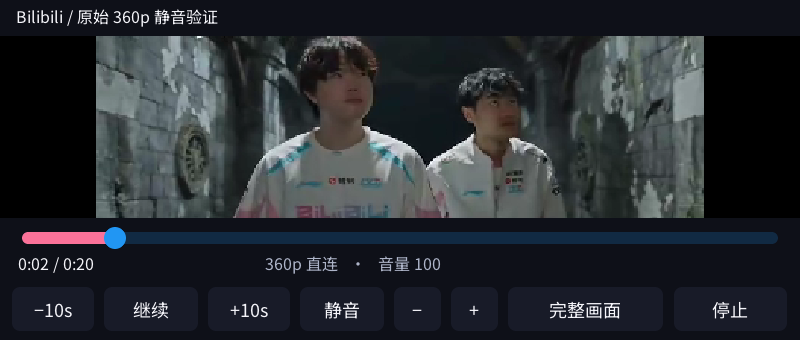
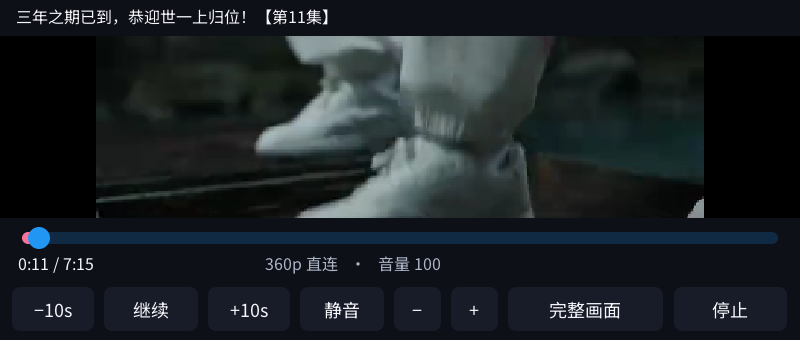
Fix Bilibili CDN playback and paused seeking

diff --git a/bilibili/src/player.cpp b/bilibili/src/player.cpp
@@ -14,18 +14,26 @@
 #include <unistd.h>
 namespace bili {
 Player::~Player(){stop();}
-void Player::command(const std::string&s){if(input_>=0){auto text="pausing_keep_force "+s+"\n";if(write(input_,text.data(),text.size())<0&&errno!=EAGAIN)error="播放器控制连接已断开";}}
+bool Player::command(const std::string&s,const char*prefix){if(input_<0)return false;auto text=prefix+s+"\n";if(write(input_,text.data(),text.size())!=(ssize_t)text.size()){error="播放器控制连接已断开";return false;}return true;}
 void Player::start(const Stream&s){
     stop();error.clear();ended=loaded=paused=false;position=0;duration=s.duration;reader_=Y4mReader{};lines_.clear();
     bool local=getenv("C1_BILI_QA_LOCAL")&&s.url=="/tmp/c1-bili-direct.mp4";
     if(!local&&!media_url(s.url))throw std::runtime_error("无效的视频源");
+    // The stock libavformat HTTPS stream crashes with SIGBUS on byte seeks,
+    // including -ss at startup. Its native HTTP transport supports CDN Range
+    // seeks. Only media uses HTTP; account/API traffic stays HTTPS, and no
+    // cookies are passed to MPlayer. Keep the validated host, path and query.
+    auto playback_url=s.url;
+    if(playback_url.rfind("https://",0)==0)playback_url.replace(0,5,"http");
     fifo_=c1::data()+"/bilibili/frame-"+std::to_string(getpid())+".y4m";
     if(mkfifo(fifo_.c_str(),0600))throw std::runtime_error("无法建立视频缓冲");
     video_=open(fifo_.c_str(),O_RDWR|O_NONBLOCK|O_CLOEXEC);if(video_<0){stop();throw std::runtime_error("无法打开视频缓冲");}
     fcntl(video_,F_SETPIPE_SZ,512*1024);
     int in[2],out[2];if(pipe2(in,O_CLOEXEC)){stop();throw std::runtime_error("无法创建控制管道");}if(pipe2(out,O_CLOEXEC)){close(in[0]);close(in[1]);stop();throw std::runtime_error("无法创建输出管道");}
     const char*silent=getenv("C1_BILI_SILENT");
-    std::vector<std::string> args={"mplayer","-noconfig","all","-slave","-quiet","-identify","-noconsolecontrols","-nolirc","-nojoystick","-nomouseinput","-nosub","-noautosub","-osdlevel","0","-cache","512","-cache-min","10","-framedrop","-vo","null","-ao",silent&&std::string(silent)=="1"?"null":"media","-user-agent","Mozilla/5.0","-referrer","https://www.bilibili.com/",s.url};
+    // Stock MPlayer routes HTTPS through libavformat, where -referrer and
+    // -user-agent are not forwarded. Configure both HTTP transport paths.
+    std::vector<std::string> args={"mplayer","-noconfig","all","-slave","-quiet","-identify","-noconsolecontrols","-nolirc","-nojoystick","-nomouseinput","-nosub","-noautosub","-osdlevel","0","-cache","512","-cache-min","10","-framedrop","-vo","null","-ao",silent&&std::string(silent)=="1"?"null":"media","-user-agent","Mozilla/5.0","-referrer","https://www.bilibili.com/","-lavfstreamopts","user_agent=Mozilla/5.0,referer=https://www.bilibili.com/",playback_url};
     std::vector<char*>av;for(auto&a:args)av.push_back(a.data());av.push_back(nullptr);
     if(!screen::video_begin()){for(int fd:{in[0],in[1],out[0],out[1]})close(fd);stop();throw std::runtime_error("无法准备视频显示");}
     auto preload=c1::root()+"/streamplayer/c1max-yuv-pipe.so";pid_t parent=getpid();pid_=fork();
@@ -38,8 +46,8 @@ void Player::stop(){
     if(pid_>0){std::fprintf(stderr,"[bilibili] stop frames=%llu position_ms=%d paused=%d\n",(unsigned long long)frames(),int(position*1000),int(paused));command("quit");pid_t p=pid_;pid_=-1;kill(-p,SIGTERM);bool done=false;for(int i=0;i<25;i++){if(waitpid(p,nullptr,WNOHANG)==p){done=true;break;}usleep(10000);}if(!done){kill(-p,SIGKILL);while(waitpid(p,nullptr,0)<0&&errno==EINTR){}}}
     for(int fd:{input_,output_,video_})if(fd>=0)close(fd);input_=output_=video_=-1;if(!fifo_.empty())unlink(fifo_.c_str());fifo_.clear();screen::playing=false;screen::video_end();
 }
-void Player::pause(){if(!active()||!loaded)return;const char toggle[]="pause\n";if(write(input_,toggle,sizeof(toggle)-1)!=(ssize_t)(sizeof(toggle)-1))return;paused=!paused;last_frame_=screen::tick();}
-void Player::seek(double seconds){if(!active()||!loaded||!std::isfinite(seconds))return;position=std::clamp(seconds,0.0,double(std::max(0,duration-1)));command("seek "+std::to_string(position)+" 2");last_frame_=screen::tick();}
+void Player::pause(){if(!active()||!loaded||!command("pause",""))return;paused=!paused;last_frame_=screen::tick();}
+void Player::seek(double seconds){if(!active()||!loaded||!std::isfinite(seconds))return;position=std::clamp(seconds,0.0,double(std::max(0,duration-1)));command("seek "+std::to_string(position)+" 2","pausing_keep ");last_frame_=screen::tick();}
 void Player::poll(){
     if(!active())return;uint8_t bytes[8192];size_t budget=768*1024;ssize_t n;
     while(budget&&(n=read(video_,bytes,std::min(sizeof(bytes),budget)))>0){budget-=size_t(n);if(!reader_.feed(bytes,n,[&](auto rgb,int w,int h,int an,int ad){screen::video_frame(rgb,w,h,an,ad);loaded=true;last_frame_=screen::tick();})){error=reader_.error();break;}}
@@ -49,13 +57,14 @@ void Player::poll(){
             else if(line.rfind("ID_LENGTH=",0)==0){auto v=std::stod(line.substr(10));if(std::isfinite(v)&&v>0&&v<=86400)duration=v;}
             else if(line.rfind("C1_YUV_ERROR=",0)==0)error="视频格式或尺寸超出直播放范围";
             else if(line.find("Failed to resolve hostname")!=std::string::npos)error="DNS 解析失败，请检查设备 Wi-Fi";
-            else if(line.find("403 Forbidden")!=std::string::npos)error="视频链接已失效，请返回后重试";
+            else if(line.find("403 Forbidden")!=std::string::npos||line.find("403: Forbidden")!=std::string::npos)error="视频服务器拒绝访问（403），请返回后重试";
+            else if(line.find("MPlayer interrupted by signal")!=std::string::npos)error="播放器异常退出，请返回后重试";
         }catch(...){}
     }
     auto now=screen::tick();if(now-last_query_>500){command("get_time_pos");last_query_=now;}
     if(now-last_stats_>5000){std::fprintf(stderr,"[bilibili] frames=%llu elapsed_ms=%u position_ms=%d paused=%d\n",(unsigned long long)frames(),now-started_,int(position*1000),int(paused));last_stats_=now;}
     int status=0;bool exited=waitpid(pid_,&status,WNOHANG)==pid_;
-    if(exited){pid_t old=pid_;pid_=-1;kill(-old,SIGTERM);if(!loaded&&error.empty())error="视频打开失败，请检查网络或重新选择视频";}
+    if(exited){pid_t old=pid_;pid_=-1;kill(-old,SIGTERM);if(error.empty()){if(!loaded)error="视频打开失败，请检查网络或重新选择视频";else if(!WIFEXITED(status)||WEXITSTATUS(status))error="播放器异常退出，请返回后重试";}}
     bool timedout=(!loaded&&now-started_>30000)||(loaded&&!paused&&now-last_frame_>15000);
     if(timedout&&error.empty())error="视频加载超时，请检查网络后重试";
     screen::video_refresh(paused);

diff --git a/bilibili/tests/player_device_test.cpp b/bilibili/tests/player_device_test.cpp
@@ -1,0 +1,50 @@
+// Device-only integration test of the real Player / original MPlayer / CDN.
+// No framebuffer, keyboard or audio device access. Display submission is a sink;
+// decoding, YUV FIFO, transport, slave controls and timing remain the real code.
+#include "player.hpp"
+#include "display.hpp"
+#include <chrono>
+#include <cmath>
+#include <csignal>
+#include <filesystem>
+#include <functional>
+#include <iostream>
+#include <stdexcept>
+#include <unistd.h>
+namespace screen {
+bool playing=false,tap=false;
+uint32_t tick(){return std::chrono::duration_cast<std::chrono::milliseconds>(
+    std::chrono::steady_clock::now().time_since_epoch()).count();}
+bool video_begin(){return true;}
+void video_frame(const uint32_t*,int,int,int,int){}
+void video_refresh(bool){}
+void video_end(){}
+}
+int main(int argc,char**argv){
+    if(argc!=2||!getenv("C1_APPS_DATA")){std::cerr<<"Set a temporary C1_APPS_DATA, then pass a BV id\n";return 2;}
+    setenv("C1_BILI_SILENT","1",1);
+    signal(SIGPIPE,SIG_IGN);
+    std::filesystem::create_directories(c1::data()+"/bilibili");
+    try{
+        bili::Api api;auto detail=api.detail(argv[1]);auto source=api.stream(detail["bvid"],detail["pages"][0]["cid"]);
+        if(source.duration<90)throw std::runtime_error("Choose a video longer than 90 seconds");
+        bili::Player p;p.start(source);
+        auto poll=[&]{p.poll();if(!p.error.empty())throw std::runtime_error(p.error);if(!p.active())throw std::runtime_error("Player exited unexpectedly");usleep(5000);};
+        auto until=[&](const std::function<bool()>&ready,const char*label){auto start=screen::tick();while(!ready()){poll();if(screen::tick()-start>20000)throw std::runtime_error(label);}};
+        auto settle=[&](unsigned ms){auto start=screen::tick();while(screen::tick()-start<ms)poll();};
+        auto stable=[&]{settle(500);auto frames=p.frames();auto pos=p.position;settle(2200);if(!p.paused||p.frames()!=frames||std::abs(p.position-pos)>0.2)throw std::runtime_error("Pause did not hold frames/time");};
+        until([&]{return p.loaded&&p.position>=3;},"Initial playback timed out");
+        p.pause();stable();std::cout<<"PASS pause holds frames/time\n";
+        auto frames=p.frames();p.seek(15);
+        until([&]{return p.frames()>frames&&std::abs(p.position-15)<1;},"Paused seek timed out");
+        stable();std::cout<<"PASS paused seek to 15s holds new frame/time\n";
+        p.pause();until([&]{return p.position>=17&&p.frames()>frames+20;},"Resume timed out");
+        std::cout<<"PASS resume advances frames/time\n";
+        frames=p.frames();p.seek(70);until([&]{return p.frames()>frames+3&&p.position>=70&&p.position<75;},"Forward seek timed out");
+        settle(1200);if(p.position<70||p.position>80)throw std::runtime_error("Forward seek did not persist");
+        std::cout<<"PASS forward seek to 70s\n";
+        frames=p.frames();p.seek(5);until([&]{return p.frames()>frames+3&&p.position>=5&&p.position<8;},"Backward seek timed out");
+        settle(1500);if(p.position<5||p.position>12)throw std::runtime_error("Backward seek did not persist");
+        std::cout<<"PASS backward seek to 5s\n";p.stop();return 0;
+    }catch(const std::exception&e){std::cerr<<"FAIL "<<e.what()<<'\n';return 1;}
+}

diff --git a/tools/package.py b/tools/package.py
@@ -33,7 +33,7 @@ for name in ids:
             digest.update(str(p.relative_to(root)).encode()+b'\0'+p.read_bytes())
     for filename in ['CMakeLists.txt','dependencies.json','archives.json']:
         digest.update((root/filename).read_bytes())
-    apps.append({'id':name,'version':'0.3.1' if name=='crosspoint' else '0.3.0' if name=='calendar' else '0.1.2' if name=='dosbox' else '0.1.1' if name=='pcsx4all' else '0.1.0' if name in ['terminal','gomoku','processing','bilibili'] else '0.2.0','revision':digest.hexdigest()})
+    apps.append({'id':name,'version':'0.3.1' if name=='crosspoint' else '0.3.0' if name=='calendar' else '0.1.2' if name=='dosbox' else '0.1.1' if name in ['pcsx4all','bilibili'] else '0.1.0' if name in ['terminal','gomoku','processing'] else '0.2.0','revision':digest.hexdigest()})
 catalog={'schema':1,'platform':'c1max-mipsel-linux','apps':apps}
 if not args.local:(root/'catalog.json').write_text(json.dumps(catalog,indent=2)+'\n')
 out=root/'.build/device'

diff --git a/bilibili/src/player.hpp b/bilibili/src/player.hpp
@@ -21,6 +21,6 @@ private:
     std::string fifo_,lines_;
     Y4mReader reader_;
     uint32_t started_=0,last_frame_=0,last_query_=0,last_stats_=0;
-    void command(const std::string&text);
+    bool command(const std::string&text,const char*prefix="pausing_keep_force ");
 };
 }

diff --git a/docs/2026-09-26-bilibili-qa.md b/docs/2026-09-26-bilibili-qa.md
@@ -3,7 +3,36 @@
 目标设备：C1 Max / MIPS32r2 / Linux 4.4，逻辑分辨率 800×340。
 参考 wiliwili 提交 `88e5876bea9502d06f46a8656e3530684d3aaf7d`。
 
-## 已通过
+## 2026-09-27 联网复测（0.1.1）
+
+- Wi-Fi 恢复后，原生 MIPS API 在真机取得热门 20 条、搜索 processing
+  20 条、详情／分 P、360p MP4、PNG 封面，以及登录二维码；轮询返回
+  86101（等待扫码）。GUI 热门和真实搜索结果已重新截图。
+- 复现旧版 403：原厂 MPlayer 的 HTTPS 请求没有接收到普通 `-referrer`
+  参数。同一新鲜直链，wget 成功、旧播放器失败；补充 `-lavfstreamopts`
+  后成功解码。错误提示也改为“服务器拒绝访问（403）”，不再断言链接过期。
+- 发现原厂 HTTPS 流的 seek 会触发 SIGBUS：带缓存、不带缓存、MOV demuxer
+  和启动时 `-ss 15` 均复现；同一视频的 HTTP Range 和本地文件跳转成功。
+  当前视频走同一白名单 CDN 的原生 HTTP 通道，保留完整路径和签名查询串。
+  **视频传输不加密**；API、扫码登录、封面仍走 HTTPS，不向 CDN 发送账号 Cookie。
+- `pausing_keep_force seek` 换成 `pausing_keep seek`，使暂停时的跳转实际执行，
+  完成后保持暂停；查询进度仍使用 force 前缀。异常退出不再冒充正常播放结束。
+- 新增真机专用 `c1max-bilibili-player-test`：使用真实 Player、MPlayer、CDN、
+  YUV FIFO 和完整帧读取，仅以空显示端替代 framebuffer，始终静音、不读键盘。
+  两个公开视频 BV1XLhd6tE23、BV14Dho6WE66 均通过：暂停帧数／时间保持不变；
+  暂停跳至 15 秒后新帧保持；恢复帧数和时间推进；向前至 70 秒及向后至 5 秒。
+  这是播放器集成回归，不替代触摸或显示验证。
+- 有声 GUI 连续播放约 40 秒，稳定区间每 5 秒增加 149–151 帧，约 30 fps；
+  一段出现短暂缓冲。两张独立 framebuffer 截图显示不同画面。用户确认“有声音了”；
+  尚未测量精确音画同步或长时间稳定性。
+- GUI 客户端 RSS 约 4.3–5.1 MB；另有 MPlayer 解码、缓存、音频进程，不能把
+  客户端 RSS 当作整套播放器内存。QA 早期在 RAM 的 `/tmp` 积累 21 张原始截图，
+  恢复原装桌面后曾触发 OOM。已将截图移回电脑并清除设备临时副本及多余测试程序，
+  后续测试先停止原装桌面，两个播放器回归均通过。正式应用不保存这些原始截图。
+- MIPS API 回归与 YUV 缩放 ASan/UBSan 回归再次通过。公开包不包含测试二进制、
+  QA 数据、私有账号或 Tox；设备本地包继续保留已有 Tox。
+
+## 首版已通过（历史）
 
 - 全部原生应用交叉编译通过；Bilibili 静态 MIPS ELF 约 2.4 MB。
 - MIPS API 回归通过：WBI 签名、ID 提取、UTF-8 截断、CDN URL 边界、
@@ -26,27 +55,32 @@
   VTT/PGS 字幕、字幕线程/取消等。
 - 图标 RGBA，alpha 范围 0..255；放入公开 Launcher 资源，完整提示词已保存。
 
-## 截图来源
+## 当前截图来源
 
-- `bilibili.png`：真机渲染真实热门目录/封面的离线缓存。缓存由电脑从
-  公开 API 取得并放进独立 `/tmp` QA 数据目录，画面明确显示“显示缓存，正在刷新”。
-  这张图不代表设备已连上 B 站。
-- `bilibili-playback.png`：真机播放上述未转码视频文件，暂停后展示完整画面和控制条。
-  截图标题标注“原始 360p 静音验证”，不是网络连续播放截图。
-- `bilibili-search.png`：真机实体键事件测试后的搜索输入界面。
-- 截图读取活动 framebuffer 页，BGRA 340×800 旋转为 800×340，没有拼接 UI。
+- `bilibili.png`：真机直接连接 API 加载热门目录及封面，替换首版离线缓存图。
+- `bilibili-playback.png`：CDN 原始 360p MP4 网络播放，暂停展示画面与控制条。
+- `bilibili-search.png`：实体键事件输入 processing 后的联网搜索结果。
+- 截图读取活动 framebuffer 页，BGRA 340×800 旋转为 800×340，没有拼接 UI；
+  使用独立 QA 数据目录，没有写入用户收藏或登录凭据。
 
 ## 尚待验证的边界
 
-设备 Wi-Fi 在测试中处于 DISCONNECTED/SCANNING，网关不可达。
-重连已保存网络未成功；没有改写 Wi-Fi 密码或持久配置，临时网络选择已恢复。
-因此设备端 HTTPS/CDN 连续播放、真实账号扫码确认、登录后内容和有声同步
-尚未完成验收。退出所有 QA 前台并恢复原装桌面，便于用户手动重连。
+真实账号扫码确认、登录后内容、精确音画同步和长时间／弱网络稳定性尚未验收。
+二维码生成与等待扫码已在设备验证，不能据此宣称账号登录成功。
 
 日志不记录 Cookie、二维码 key 或带签名的 CDN URL；临时视频、响应和原始
 日志只放在 Git 忽略目录／设备 QA 目录，不进入应用包。
 
-## 安装
+## 当前安装
+
+最终修复已逐文件校验并原子切换到
+`/storage/apps/releases/20260927-014050-0fa0701d`，Bilibili 0.1.1。
+设备可执行文件与已测试构建 SHA-256 一致：
[1 lines of base64/hex data omitted]
+设备包 17 个应用，公开清单 16 个；原有私有 Tox 与用户数据保留。
+测试程序、临时截图、临时视频和 QA 数据已从设备清理，最终停留 Launcher。
+
+## 首版安装记录
 
 2026-09-27 已通过部署脚本逐文件 SHA-256 校验并原子切换到
 `/storage/apps/releases/20260927-001030-9eb36e2c`。

diff --git a/bilibili/README.md b/bilibili/README.md
@@ -26,11 +26,13 @@
 
 ## 播放与限制
 
+0.1.1 修复了原厂播放器没有给 HTTPS CDN 传递 Referer 导致的 403。真机还发现其 HTTPS 流在跳转时触发 SIGBUS；当前视频走同一 CDN 的原生 HTTP／Range 通道，视频传输不加密。账号登录、接口、封面仍用 HTTPS，CDN 请求不携带账号 Cookie。
+
 使用原厂 MPlayer 和 StreamPlayer 的完整帧适配器，MPlayer 不直接写 framebuffer；客户端统一合成视频和控件。`C1_YUV_SCALE` 只在本应用的播放器子进程启用，将原始 360p 画面缩至最多 400×288 再传给显示端；源尺寸限制为每边不超过 960、总像素不超过 307200。StreamPlayer 的原有转码尺寸校验保持不变。
 
 首版只支持 B 站返回的单文件 360p MP4。DASH-only、多段 durl、番剧专用播放接口、付费／地区限制、直播、弹幕、评论、关注动态、云端收藏和 B 站字幕尚未实现。不会绕过登录、付费或地区权限。自动 Cookie 刷新未实现，登录过期时需重新扫码。
 
-静音本地原始 640×360 H.264/AAC 测试约 28–29 fps；客户端 RSS 约 4.3 MB，**不含 MPlayer**。该测试不等于网络连续播放或有声同步验收；不同片源的码率、帧率和网络状况会影响流畅度。详细验证记录见 [QA](../docs/2026-09-26-bilibili-qa.md)。
+真机已联网取得热门、搜索、详情、360p MP4、封面和登录二维码。原始 640×360 H.264/AAC 网络播放稳定段约 30 fps，用户确认有声音；客户端 RSS 约 4.3 MB，**不含 MPlayer**。网络偶有缓冲，尚未做长时间稳定性或精确音画同步测量；不同片源的码率、帧率和网络状况会影响流畅度。详细验证记录见 [QA](../docs/2026-09-26-bilibili-qa.md)。
 
 ## 配置、构建与隐私
 
@@ -47,14 +49,16 @@ C1_APPS_ROOT=/work/.build/device C1_APPS_DATA=/work/.runtime/bilibili-qa qemu-mi
 /storage/apps/current/bilibili/c1max-bilibili --probe
 ```
 
+真机播放器回归可单独构建 `c1max-bilibili-player-test`：设置临时 `C1_APPS_DATA`，传入一个超过 90 秒的公开视频 BV 号。该程序实际连接 CDN、解码和测试暂停／跳转，始终静音，不访问 framebuffer 或键盘。运行前应通过前台监督器退出其他应用、停止原装桌面，以免并发解码耗尽内存；完成后恢复桌面。它不包含在应用包中。
+
 可用 `C1_BILI_SILENT=1` 临时将播放音频输出到 null。`--open BV...` 打开指定视频详情，不会自动播放。依赖同一个应用包里的 `streamplayer/c1max-yuv-pipe.so`、中文字体和系统音量监督器。
 
 本应用采用 GPL-3.0-or-later；上游来源、版本和第三方许可见 [licenses/NOTICE.md](licenses/NOTICE.md)。透明 Launcher 图标使用内置 imagegen 生成，完整提示词见 [bilibili-prompt.json](../launcher/assets/bilibili-prompt.json)。
 
 ## 设备截图
 
-![热门目录缓存](../docs/screenshots/bilibili.png)
+![联网热门视频](../docs/screenshots/bilibili.png)
 
-![未转码样本的本地播放验证](../docs/screenshots/bilibili-playback.png)
+![未转码视频的网络播放](../docs/screenshots/bilibili-playback.png)
 
-以上为真实设备截图；首页是电脑获取后写入独立 QA 目录的真实热门缓存，播放图是原始视频的本地静音验证。设备网络连续播放待 Wi-Fi 恢复后验证。
+以上为真实设备联网截图，数据保存在独立 QA 目录；播放图来自 B 站 CDN 原始码流，没有服务器转码。

diff --git a/README.md b/README.md
@@ -43,7 +43,7 @@ apps/
 
 ## 设备截图
 
-下图均为 C1 Max 设备画面。Bilibili 的目录图为真实 API 缓存，播放图为未转码视频的本地静音测试；尚不代表设备网络播放验收。模拟器截图展示实际运行中的内容；PS1 镜像及 NES ROM 由用户自行提供，仓库不包含游戏镜像。DOSBox 图为项目自带的 DOS LAB 小游戏。点图可查看 800×340 原图。新增截图使用已部署应用：CrossPoint 为原创演示 EPUB，邮件为未发送的演示草稿；[截图说明](docs/screenshots/README.md)记录来源与拍摄方式。
+下图均为 C1 Max 设备画面。Bilibili 的热门、搜索和播放画面来自真机联网测试。模拟器截图展示实际运行中的内容；PS1 镜像及 NES ROM 由用户自行提供，仓库不包含游戏镜像。DOSBox 图为项目自带的 DOS LAB 小游戏。点图可查看 800×340 原图。新增截图使用已部署应用：CrossPoint 为原创演示 EPUB，邮件为未发送的演示草稿；[截图说明](docs/screenshots/README.md)记录来源与拍摄方式。
 
 <table>
   <tr>
@@ -79,8 +79,8 @@ apps/
     <td><strong>Launcher 第二页</strong><br><a href="docs/screenshots/launcher-apps.png"><img src="docs/screenshots/launcher-apps.png" alt="Launcher 第二页显示 PCSX4all、Processing、DOSBox 及四个新增应用" width="400"></a><br>A/D 或横向滑动翻页，进入新增应用。</td>
   </tr>
   <tr>
-    <td><strong>Bilibili</strong><br><a href="docs/screenshots/bilibili.png"><img src="docs/screenshots/bilibili.png" alt="Bilibili 真机显示热门目录缓存与三个封面" width="400"></a><br>热门目录缓存、搜索、分 P 和扫码登录；<a href="bilibili/README.md">功能与限制</a>。</td>
-    <td><strong>Bilibili 播放控制</strong><br><a href="docs/screenshots/bilibili-playback.png"><img src="docs/screenshots/bilibili-playback.png" alt="Bilibili 原始 360p 视频本地静音验证与控制条" width="400"></a><br>原始 360p MP4 本地静音测试；网络连续播放尚待 Wi-Fi 恢复后验证。</td>
+    <td><strong>Bilibili</strong><br><a href="docs/screenshots/bilibili.png"><img src="docs/screenshots/bilibili.png" alt="Bilibili 真机联网加载热门视频与三个封面" width="400"></a><br>联网热门、搜索、分 P 和扫码登录；<a href="bilibili/README.md">功能与限制</a>。</td>
+    <td><strong>Bilibili 播放控制</strong><br><a href="docs/screenshots/bilibili-playback.png"><img src="docs/screenshots/bilibili-playback.png" alt="Bilibili 原始 360p 视频网络播放与控制条" width="400"></a><br>原始 360p MP4 直连播放；暂停、跳转和完整画面模式。</td>
   </tr>
 </table>
 

diff --git a/docs/screenshots/README.md b/docs/screenshots/README.md
@@ -17,10 +17,10 @@
 
 原有 StreamPlayer、日历、计算器、钢琴、终端、五子棋、NES、PCSX4all、DOSBox、Processing 截图保留。PCSX4all 展示用户提供游戏的运行画面；NES 当前是设备渲染/输入自测；DOSBox 展示随项目提供的 DOS LAB。游戏镜像不在仓库中。
 
-## Bilibili（2026-09-26 至 09-27）
+## Bilibili（2026-09-27 联网复测）
 
-- `bilibili.png`：真机渲染真实 API 目录缓存，三个封面；底栏标明缓存刷新。
-- `bilibili-playback.png`：真实公开视频原始 360p MP4 的本地静音播放测试，未转码，展示 Fit 与控制条。
-- `bilibili-search.png`：实体输入、Backspace 删除后的搜索页。
+- `bilibili.png`：真机直接连接 B 站 API 后的热门目录，三个在线封面。
+- `bilibili-playback.png`：B 站 CDN 原始 360p MP4 的真机网络播放，暂停展示完整画面与控制条，未转码。
+- `bilibili-search.png`：实体按键事件输入 processing 后的真实联网搜索结果。
 
-这三张均为设备 framebuffer 截图。因设备 Wi-Fi 未连通，目录缓存由电脑抓取后写入独立 QA 目录；播放截图不是网络端到端播放证明。没有登录凭据，临时视频不随仓库发布。详情见 [Bilibili QA](../2026-09-26-bilibili-qa.md)。
+这三张均为设备 framebuffer 截图，替换了首版的离线验证图。数据使用独立 QA 目录，没有账号凭据；临时视频不随仓库发布。详情见 [Bilibili QA](../2026-09-26-bilibili-qa.md)。
